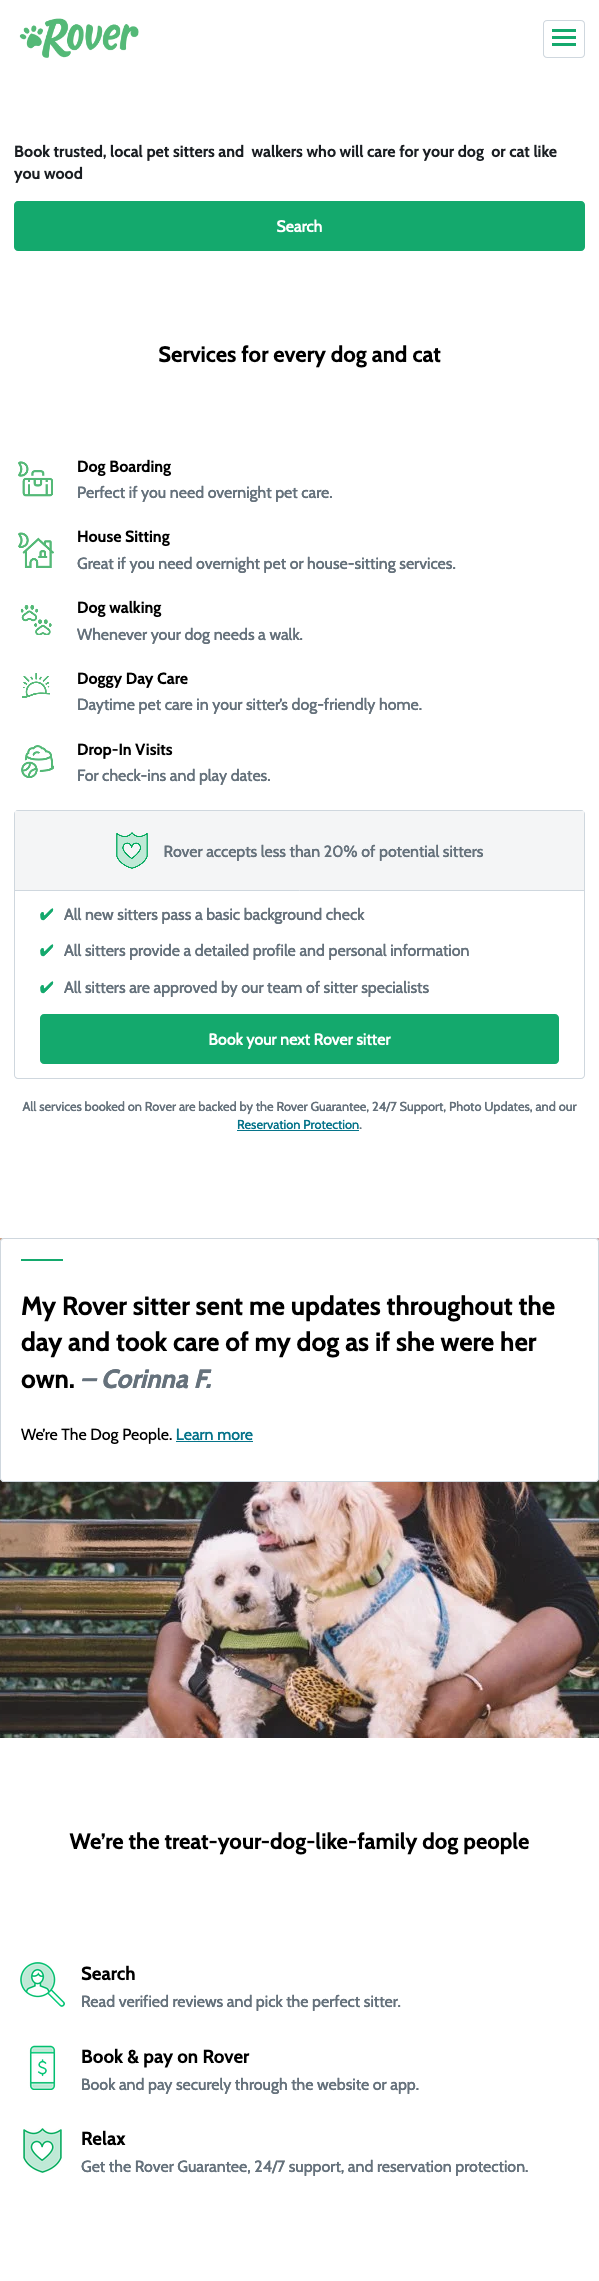
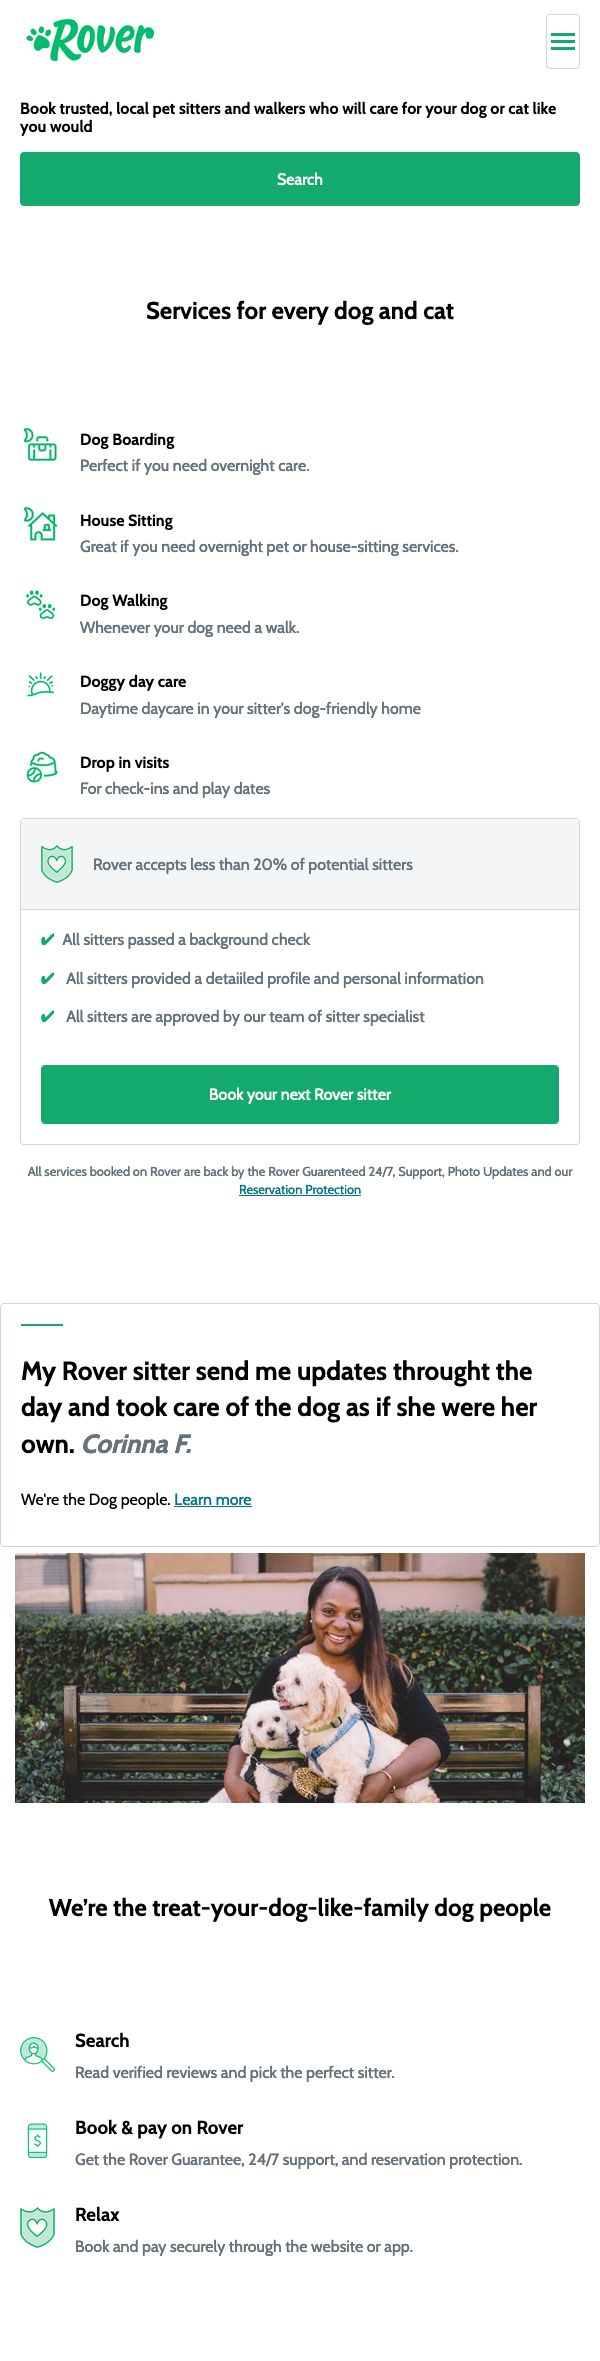
Responsive lab amend (#94)
* Amend quote position in mobile

* Typo

diff --git a/labs/responsive-lab/solution-code/css/quote.css b/labs/responsive-lab/solution-code/css/quote.css
@@ -43,6 +43,8 @@
 @media screen and (max-width: 600px) {
   .quote .content-wrapper {
     position: static;
+    background-size: auto 50%;
+    background-position: bottom;
   }
   .quote blockquote {
     position: static;

diff --git a/@shared/lessons/src/fewd/19-bootstrap.md b/@shared/lessons/src/fewd/19-bootstrap.md
@@ -3,7 +3,7 @@ class: frontpage
 <div>
   <h2>Front-End Web Development</h2>
   <hr/>
-  <h1>Boostrap</h1>
+  <h1>Bootstrap</h1>
 </div>
 
 ---
